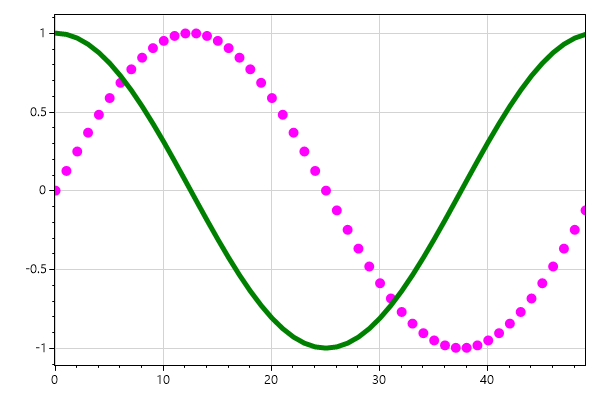
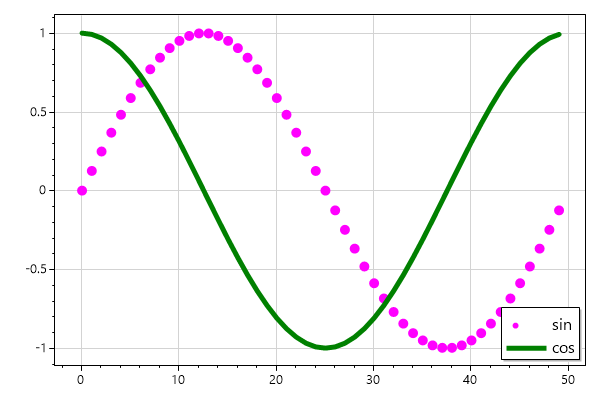
improve legend options
Legend(fixedLineWidth: false) makes legend show the line width actually used for the plot. Solves #185

diff --git a/cookbook/cookbook.html b/cookbook/cookbook.html
@@ -121,9 +121,11 @@ double[] dataSin = ScottPlot.DataGen.Sin(pointCount);
 double[] dataCos = ScottPlot.DataGen.Cos(pointCount);
 
 var plt = new ScottPlot.Plot(width, height);
-plt.PlotScatter(dataXs, dataSin, color: Color.Magenta, lineWidth: 0, markerSize: 10);
-plt.PlotScatter(dataXs, dataCos, color: Color.Green, lineWidth: 5, markerSize: 0);
-plt.AxisAuto(0); // no horizontal margin (default 10% vertical margin)
+plt.PlotScatter(dataXs, dataSin, color: Color.Magenta, lineWidth: 0, markerSize: 10, label: "sin");
+plt.PlotScatter(dataXs, dataCos, color: Color.Green, lineWidth: 5, markerSize: 0, label: "cos");
+
+plt.Legend(fixedLineAndMarkerSize: false);
+
 plt.Save(600, 400, "02_Styling_Scatter_Plots.png");
 </pre>
 <h2><br>Plot XY Data</h2>

diff --git a/src/ScottPlot/Legend.cs b/src/ScottPlot/Legend.cs
@@ -232,6 +232,20 @@ namespace ScottPlot
             if (plottable is PlottableAxSpan)
                 pen.Width = 10;
 
+            if (settings.legend.fixedLineWidth == false)
+            {
+                if (plottable is PlottableScatter)
+                    pen.Width = (float)((PlottableScatter)plottable).lineWidth;
+                if (plottable is PlottableSignal)
+                    pen.Width = (float)((PlottableSignal)plottable).lineWidth;
+            }
+
+            // dont draw line if it's not on the plottable
+            if ((plottable is PlottableScatter) && (((PlottableScatter)plottable).lineWidth) == 0)
+                return;
+            if ((plottable is PlottableSignal) && (((PlottableSignal)plottable).lineWidth) == 0)
+                return;
+
             switch (plottable.lineStyle)
             {
                 case LineStyle.Solid:
@@ -260,6 +274,14 @@ namespace ScottPlot
         {
             Brush brushMarker = new SolidBrush(plottable.color);
             Pen penMarker = new Pen(plottable.color, 1);
+
+            // dont draw marker if it's not on the plottable
+            if (plottable.markerShape == MarkerShape.none)
+                return;
+            if ((plottable is PlottableScatter) && (((PlottableScatter)plottable).markerSize) == 0)
+                return;
+            if ((plottable is PlottableSignal) && (((PlottableSignal)plottable).markerSize) == 0)
+                return;
 
             PointF corner1 = new PointF(textLocation.X - stubWidth + settings.legend.font.Size / 4, textLocation.Y + settings.legend.font.Size / 4 * padding);
             PointF center = new PointF

diff --git a/tests/Cookbook.cs b/tests/Cookbook.cs
@@ -192,9 +192,11 @@ namespace ScottPlotTests
             double[] dataCos = ScottPlot.DataGen.Cos(pointCount);
 
             var plt = new ScottPlot.Plot(width, height);
-            plt.PlotScatter(dataXs, dataSin, color: Color.Magenta, lineWidth: 0, markerSize: 10);
-            plt.PlotScatter(dataXs, dataCos, color: Color.Green, lineWidth: 5, markerSize: 0);
-            plt.AxisAuto(0); // no horizontal margin (default 10% vertical margin)
+            plt.PlotScatter(dataXs, dataSin, color: Color.Magenta, lineWidth: 0, markerSize: 10, label: "sin");
+            plt.PlotScatter(dataXs, dataCos, color: Color.Green, lineWidth: 5, markerSize: 0, label: "cos");
+
+            plt.Legend(fixedLineWidth: false);
+
             if (outputPath != null) plt.SaveFig(fileName); else Console.WriteLine(plt.GetHashCode());
             Console.WriteLine($"Saved: {fileName}");
         }

diff --git a/src/ScottPlot/Plot.cs b/src/ScottPlot/Plot.cs
@@ -818,7 +818,7 @@ namespace ScottPlot
             Color? frameColor = null,
             legendLocation location = legendLocation.lowerRight,
             shadowDirection shadowDirection = shadowDirection.lowerRight,
-            LineStyle lineStyle = LineStyle.Solid
+            bool? fixedLineWidth = null
             )
         {
             if (fontColor != null)
@@ -831,6 +831,9 @@ namespace ScottPlot
             fontName = ScottPlot.Tools.VerifyFont(fontName);
             FontStyle fontStyle = (bold) ? FontStyle.Bold : FontStyle.Regular;
             settings.legend.font = new Font(fontName, fontSize, fontStyle);
+
+            if (fixedLineWidth != null)
+                settings.legend.fixedLineWidth = (bool)fixedLineWidth;
 
             if (enableLegend)
             {

diff --git a/src/ScottPlot/Config/Legend.cs b/src/ScottPlot/Config/Legend.cs
@@ -18,5 +18,6 @@ namespace ScottPlot.Config
         public shadowDirection shadow = shadowDirection.none;
         public Rectangle rect = new Rectangle(0, 0, 1, 1);
         public bool antiAlias = true;
+        public bool fixedLineWidth = true;
     }
 }

diff --git a/cookbook/readme.md b/cookbook/readme.md
@@ -167,9 +167,11 @@ double[] dataSin = ScottPlot.DataGen.Sin(pointCount);
 double[] dataCos = ScottPlot.DataGen.Cos(pointCount);
 
 var plt = new ScottPlot.Plot(width, height);
-plt.PlotScatter(dataXs, dataSin, color: Color.Magenta, lineWidth: 0, markerSize: 10);
-plt.PlotScatter(dataXs, dataCos, color: Color.Green, lineWidth: 5, markerSize: 0);
-plt.AxisAuto(0); // no horizontal margin (default 10% vertical margin)
+plt.PlotScatter(dataXs, dataSin, color: Color.Magenta, lineWidth: 0, markerSize: 10, label: "sin");
+plt.PlotScatter(dataXs, dataCos, color: Color.Green, lineWidth: 5, markerSize: 0, label: "cos");
+
+plt.Legend(fixedLineAndMarkerSize: false);
+
 plt.Save(600, 400, "02_Styling_Scatter_Plots.png");
 ```
 
